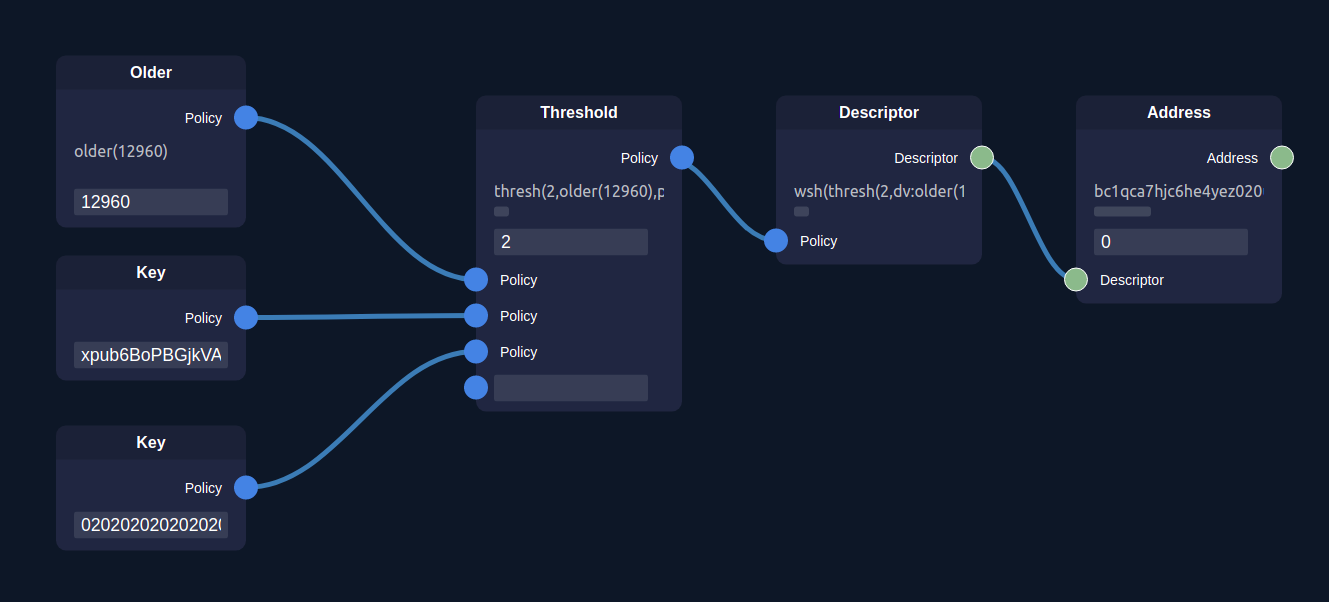
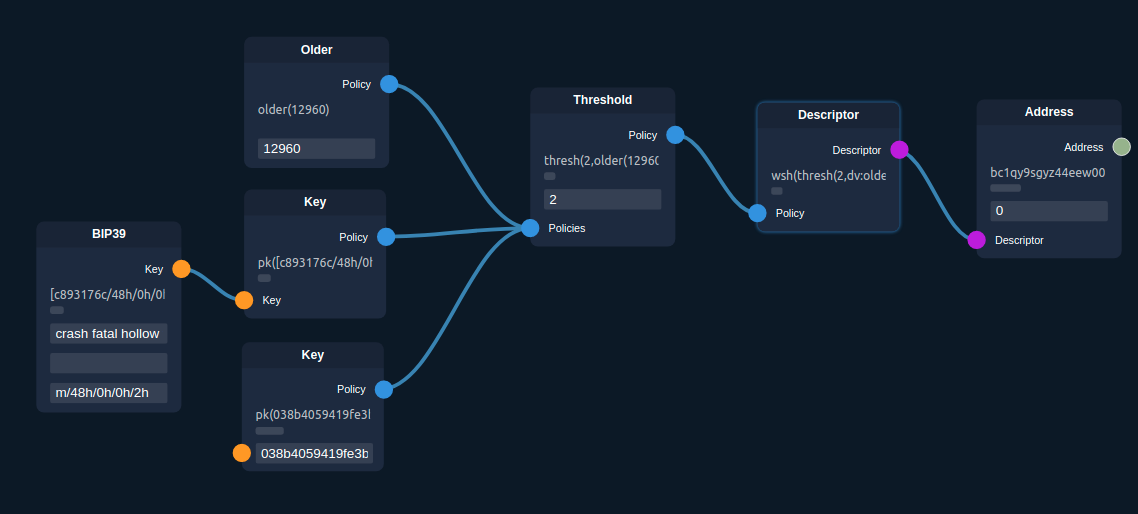
add instructions, bip39 in default demo

diff --git a/www/app.js b/www/app.js
@@ -549,8 +549,8 @@ async function app_init(){
     searchBar: false,
   });
   editor.use(AreaPlugin);
-  editor.use(CommentPlugin.default);
-  editor.use(HistoryPlugin);
+  // editor.use(CommentPlugin.default);
+  // editor.use(HistoryPlugin);
   // editor.use(DockPlugin.default,{
   //   container: document.querySelector('#dock'),
   //   // itemClass: 'item' // default: dock-item 
@@ -568,31 +568,39 @@ async function app_init(){
   if(window.location.hash.startsWith("#/full/")){
     await loadHash();
   }else{
-    let n1 = await OlderC.createNode({num: 12960});
-    let n2 = await KeyC.createNode({key: "xpub6BoPBGjkVAcue1y571JydPTaQ5iLfERUDxgao7ZRLiB2LDvvezCcsZymMJTfXWqRkGpeBNReNyNjEUN9HzTeX8mzbzvyzmsBWHkgwbZhGny/0/*"});
[1 lines of base64/hex data omitted]
+    let p1 = await OlderC.createNode({num: 12960});
+    let mn = await BIP39_C.createNode({
+                    mnemonic: "crash fatal hollow thank swallow submit tattoo portion code foam math force",
+                    password:"",
+                    derivation:"m/48h/0h/0h/2h",
+    });
+    let p2 = await KeyC.createNode();
[1 lines of base64/hex data omitted]
     let thresh = await ThreshC.createNode({thresh: 2});
     let desc = await DescC.createNode();
     let addr = await AddressC.createNode({idx: 0});
 
-    n1.position = [80, 200];
-    n2.position = [80, 400];
-    n3.position = [80, 570];
+    p1.position = [80, 200];
+    mn.position = [-200, 400];
+    p2.position = [80, 400];
+    p3.position = [80, 600];
     thresh.position = [500, 240];
     desc.position = [800, 240];
     addr.position = [1100, 240];
 
-    editor.addNode(n1);
-    editor.addNode(n2);
-    editor.addNode(n3);
+    editor.addNode(p1);
+    editor.addNode(mn);
+    editor.addNode(p2);
+    editor.addNode(p3);
     editor.addNode(thresh);
     editor.addNode(desc);
     editor.addNode(addr);
 
-    editor.connect(n1.outputs.get('pol'), thresh.inputs.get('policies'));
+    editor.connect(mn.outputs.get('key'), p2.inputs.get('key'));
+    editor.connect(p1.outputs.get('pol'), thresh.inputs.get('policies'));
     editor.connect(thresh.outputs.get('pol'), desc.inputs.get('pol'));
-    editor.connect(n2.outputs.get('key'), thresh.inputs.get('policies'));
-    editor.connect(n3.outputs.get('key'), thresh.inputs.get('policies'));
+    editor.connect(p2.outputs.get('key'), thresh.inputs.get('policies'));
+    editor.connect(p3.outputs.get('key'), thresh.inputs.get('policies'));
     editor.connect(desc.outputs.get('desc'), addr.inputs.get('desc'));
 
     editor.view.resize();

diff --git a/index.html b/index.html
@@ -29,13 +29,13 @@
 <script src="https://cdnjs.cloudflare.com/ajax/libs/vue/2.6.14/vue.min.js"></script>
 <script src="https://cdn.jsdelivr.net/npm/rete-vue-render-plugin@0.5.1/build/vue-render-plugin.min.js"></script>
 <script src="https://cdn.jsdelivr.net/npm/rete-connection-plugin@0.9.0/build/connection-plugin.min.js"></script>
-<script src="https://cdn.jsdelivr.net/npm/rete-dock-plugin@0.2.1/build/dock-plugin.min.js"></script>
-<script src="https://cdn.jsdelivr.net/npm/alight@0.14.1/alight.min.js"></script>
+<!-- <script src="https://cdn.jsdelivr.net/npm/rete-dock-plugin@0.2.1/build/dock-plugin.min.js"></script> -->
+<!-- <script src="https://cdn.jsdelivr.net/npm/alight@0.14.1/alight.min.js"></script> -->
 <script src="https://cdnjs.cloudflare.com/ajax/libs/lodash.js/4.17.11/lodash.min.js"></script>
 <script src="https://cdn.jsdelivr.net/npm/rete-context-menu-plugin@0.5.2/build/context-menu-plugin.min.js"></script>
 <script src="https://cdn.jsdelivr.net/npm/rete-area-plugin@0.2.1/build/area-plugin.min.js"></script>
-<script src="https://cdn.jsdelivr.net/npm/rete-comment-plugin@0.3.0/build/comment-plugin.min.js"></script>
-<script src="https://cdn.jsdelivr.net/npm/rete-history-plugin@0.1.0/build/history-plugin.min.js"></script>
+<!-- <script src="https://cdn.jsdelivr.net/npm/rete-comment-plugin@0.3.0/build/comment-plugin.min.js"></script> -->
+<!-- <script src="https://cdn.jsdelivr.net/npm/rete-history-plugin@0.1.0/build/history-plugin.min.js"></script> -->
 <script src="https://cdn.jsdelivr.net/npm/rete-connection-mastery-plugin@0.1.0/build/connection-mastery-plugin.min.js"></script>
 <script src="./www/app.js"></script>
 

diff --git a/README.md b/README.md
@@ -8,6 +8,18 @@ Try online: [miniscript.fun](https://miniscript.fun)
 
 ![](screenshot.png)
 
+## How to build and run
+
+You will need [rust](https://www.rust-lang.org/tools/install) and [wasm-pack](https://rustwasm.github.io/wasm-pack/installer/), then:
+```
+cd rust
+wasm-pack build --target web
+cd ..
+python3 -m http.server
+```
+
+You'll see the website on http://localhost:8000
+
 ## Roadmap
 
 Planned:
@@ -18,6 +30,8 @@ Planned:
 - [x] node inspector with node output
 - [x] bip39 and DescriptorKey nodes (mnemonic to root key, then derive with path and select allowed derivation)
 - [x] network selector (bitcoin / testnet / regtest / signet)
+- [ ] add labels for inputs like threshold, mnemonic, password, derivation path etc.
+- [ ] add info-description for nodes
 - [ ] use sortedmulti instead of multi
 - [ ] allow aliases for keys (any string instead of a valid (x)pub)
 - [ ] build nodes from url with policy (`#/policy/andor(blah(blah))`)
